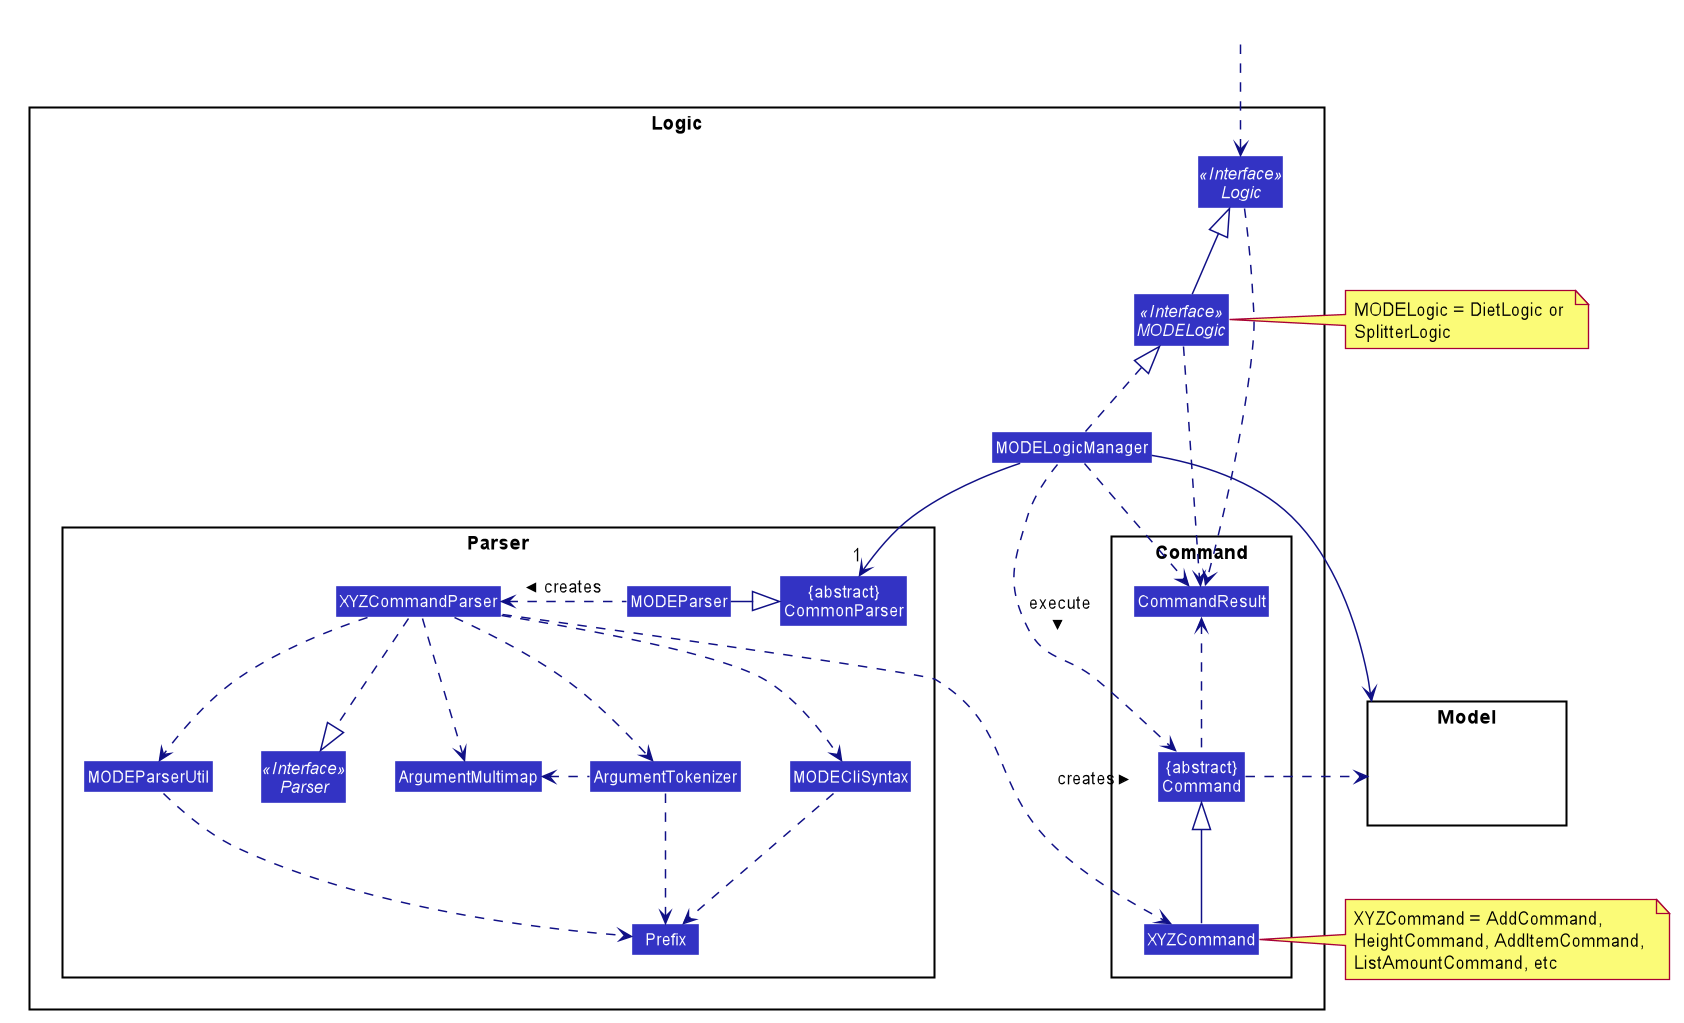
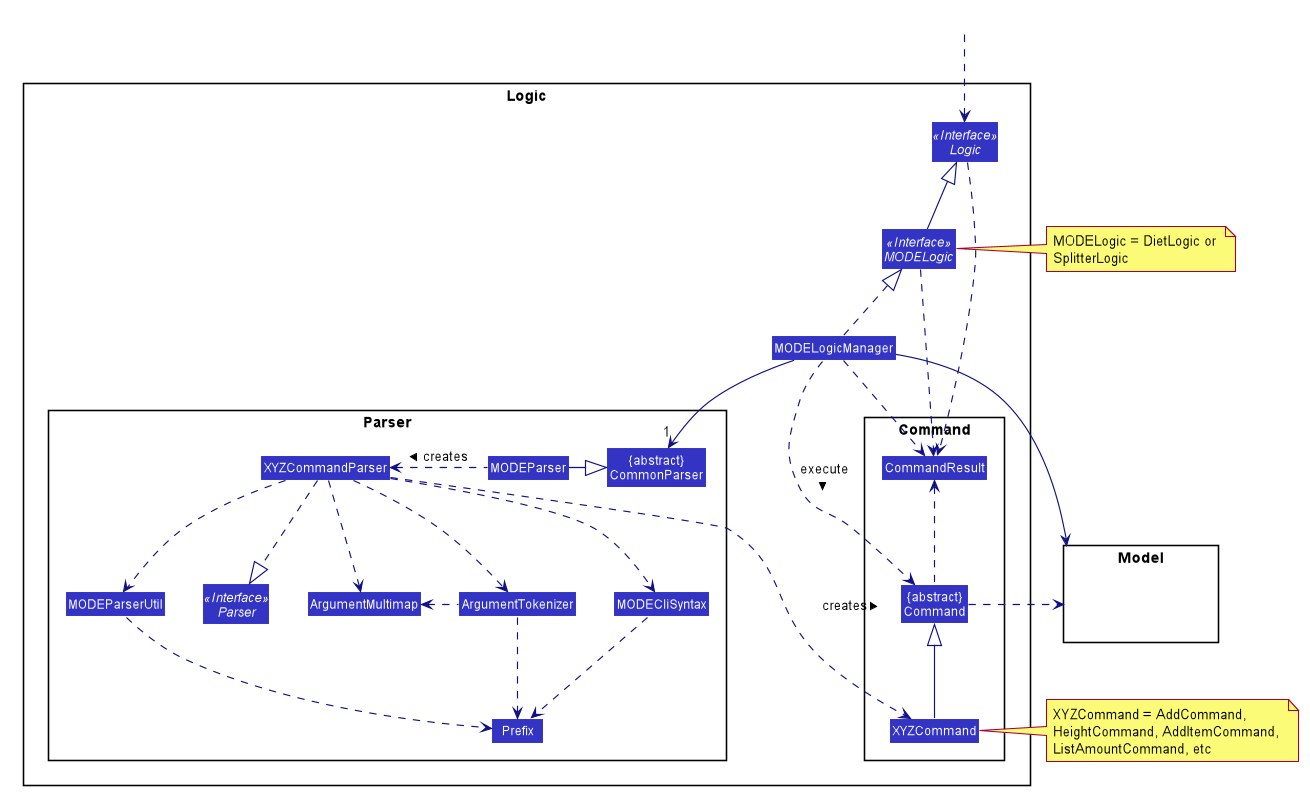
Update Model and Logic Diagram

diff --git a/src/main/java/seedu/eylah/commons/logic/parser/CommonParser.java b/src/main/java/seedu/eylah/commons/logic/parser/CommonParser.java
@@ -8,12 +8,12 @@ import seedu.eylah.commons.logic.parser.exception.ParseException;
 /**
  * Parses user input.
  */
-public abstract class CommonParser<E> {
+public interface CommonParser<E> {
 
     /**
      * Used for initial separation of command word and args.
      */
-    public static final Pattern BASIC_COMMAND_FORMAT = Pattern.compile("(?<commandWord>\\S+)(?<arguments>.*)");
+    Pattern BASIC_COMMAND_FORMAT = Pattern.compile("(?<commandWord>\\S+)(?<arguments>.*)");
 
     /**
      * Parses user input into command for execution.
@@ -22,6 +22,6 @@ public abstract class CommonParser<E> {
      * @return the command based on the user input
      * @throws ParseException if the user input does not conform the expected format
      */
-    public abstract Command<E> parseCommand(String userInput) throws ParseException;
+    Command<E> parseCommand(String userInput) throws ParseException;
 
 }

diff --git a/src/main/java/seedu/eylah/expensesplitter/logic/parser/ExpenseSplitterParser.java b/src/main/java/seedu/eylah/expensesplitter/logic/parser/ExpenseSplitterParser.java
@@ -23,7 +23,7 @@ import seedu.eylah.expensesplitter.model.SplitterModel;
 /**
  * Parses user input for ExpenseSplitter.
  */
-public class ExpenseSplitterParser extends CommonParser<SplitterModel> {
+public class ExpenseSplitterParser implements CommonParser<SplitterModel> {
 
     @Override
     public Command<SplitterModel> parseCommand(String userInput) throws ParseException {

diff --git a/src/main/java/seedu/eylah/diettracker/logic/parser/FoodBookParser.java b/src/main/java/seedu/eylah/diettracker/logic/parser/FoodBookParser.java
@@ -25,7 +25,7 @@ import seedu.eylah.diettracker.model.DietModel;
 /**
  * Parses user input.
  */
-public class FoodBookParser extends CommonParser<DietModel> {
+public class FoodBookParser implements CommonParser<DietModel> {
 
     @Override
     public Command<DietModel> parseCommand(String userInput) throws ParseException {
